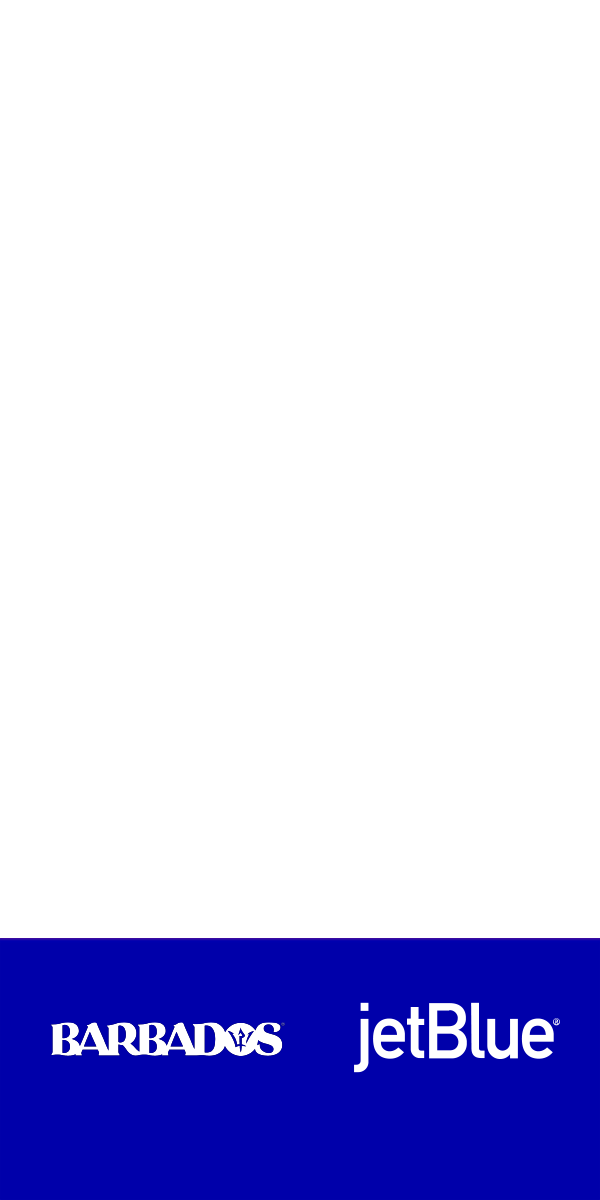
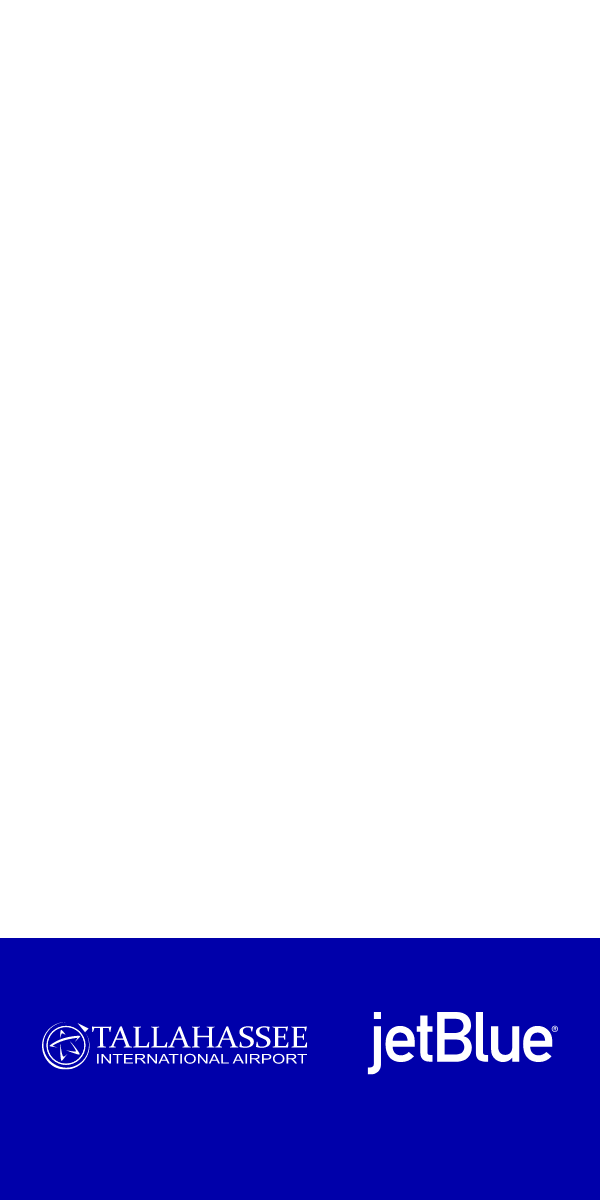
Route updated.

Changed region(s): [[0.06, 0.8325, 0.51, 0.8942], [0.6, 0.8325, 0.93, 0.8942]]

diff --git a/tallahassee_dynamic_banners/tallahassee_dynamic_banners_route2/richLoads/CA_Vacation_R2_300x250_RL1/index.html b/tallahassee_dynamic_banners/tallahassee_dynamic_banners_route2/richLoads/CA_Vacation_R2_300x250_RL1/index.html
@@ -36,11 +36,11 @@
         <img src="./images/bottomPanel.png" id="bottomPanel" class="full-width" />
 
         <div id="text_holder">
-            <div id="h1" class="hidden">Fly to and from<br/>Tallahassee</span></div>
-            <div id="h2" class="hidden">In less time than it<br/>takes to spell it.</div>
+            <div id="h1" class="hidden">Fly to and from<br>Tallahassee...</div>
+            <div id="h2" class="hidden">in less time than it<br>takes to spell it.</div>
           <!-- <div id="terms1" class="terms activeterms"><span class="asterisk">&ast;</span>Based on the avg. fleet wide seat pitch of U.S. airlines.<br/></div> -->
           
-          <div id="termsCopyright" class="terms">&copy; 2023 JetBlue Airways Corporation. All rights reserved.</div>
+          <div id="termsCopyright" class="terms">&copy; 2024 JetBlue Airways Corporation. All rights reserved.</div>
 
 <!--          -->
 

diff --git a/tallahassee_dynamic_banners/tallahassee_dynamic_banners_route2/richLoads/CA_Vacation_R2_728x90_RL1/index.html b/tallahassee_dynamic_banners/tallahassee_dynamic_banners_route2/richLoads/CA_Vacation_R2_728x90_RL1/index.html
@@ -37,9 +37,9 @@
         <img src="./images/bottomPanel.png" id="bottomPanel" class="retina" />
 
         <div id="text_holder">
-            <div id="h1" class="hidden">Take a dip in the waters...</span></div>
-            <div id="h2" class="hidden">and dive into a new world of cuisine.</div>
-          <div id="termsCopyrightHolder"><div id="termsCopyright" class="terms">&copy; 2023 JetBlue Airways Corporation. All rights reserved.</div>
+            <div id="h1" class="hidden">Fly to and from<br>Tallahassee...</div>
+            <div id="h2" class="hidden">in less time than it<br>takes to spell it.</div>
+          <div id="termsCopyrightHolder"><div id="termsCopyright" class="terms">&copy; 2024 JetBlue Airways Corporation. All rights reserved.</div>
 <!--           <div id="logoHolder">
             <img id="logo" src="./images/logo.svg" class="" />
             <div id="partner_logo_container">

diff --git a/tallahassee_dynamic_banners/tallahassee_dynamic_banners_route2/richLoads/CA_Vacation_R2_160x600_RL1/index.html b/tallahassee_dynamic_banners/tallahassee_dynamic_banners_route2/richLoads/CA_Vacation_R2_160x600_RL1/index.html
@@ -36,9 +36,9 @@
         <img src="./images/bottomPanel.png" id="bottomPanel" class="retina" />
 
         <div id="text_holder">
-            <div id="h1" class="hidden">Take<br>a dip<br>in the<br>waters...</span></div>
-            <div id="h2" class="hidden">and dive<br>into a<br>new world<br>of cuisine.</div>
-            <div id="termsCopyright" class="terms">&copy; 2023 JetBlue Airways Corporation.<br>All rights reserved.</div>
+            <div id="h1" class="hidden">Fly to<br>and from<br>Tallahassee...</div>
+            <div id="h2" class="hidden">in less time<br>than it takes<br>to spell it.</div>
+            <div id="termsCopyright" class="terms">&copy; 2024 JetBlue Airways Corporation.<br>All rights reserved.</div>
             <!--           <div id="logoHolder">
             <img id="logo" src="./images/logo.svg" class="" />
             <div id="partner_logo_container">

diff --git a/tallahassee_dynamic_banners/tallahassee_dynamic_banners_route2/richLoads/CA_Vacation_R2_160x600_RL2/index.html b/tallahassee_dynamic_banners/tallahassee_dynamic_banners_route2/richLoads/CA_Vacation_R2_160x600_RL2/index.html
@@ -17,7 +17,7 @@
       <!--start main_container-->
       <div id="main_content" class="hidden">
 
-      <img src="./images/bgPanel.png" id="bgPanel" class="" />
+      <img src="./images/bgPanel.png" id="bgPanel" class="retina" />
 
         <div id="text_holder">
           <div id="h4" class="hidden sm">Go with JetBlue<br/><span class="orange">Washington D.C.<br/>(Dulles)</span></div>
@@ -39,7 +39,7 @@
 
         <img src="./images/bottomPanel.png" id="bottomPanel" class="retina" />
 
-        <div id="terms1" class="terms">&copy; 2023 JetBlue Airways Corporation. <br>All rights reserved. </div>
+        <div id="terms1" class="terms">&copy; 2024 JetBlue Airways Corporation. <br>All rights reserved. </div>
         <div id="terms2"  class="terms hidden"><span class="asterisk">&ast;</span>Restrictions apply</div>
 
       <div id="default_exit" class="btn" ></div>

diff --git a/tallahassee_dynamic_banners/tallahassee_dynamic_banners_route2/richLoads/CA_Vacation_R2_300x600_RL1/index.html b/tallahassee_dynamic_banners/tallahassee_dynamic_banners_route2/richLoads/CA_Vacation_R2_300x600_RL1/index.html
@@ -38,9 +38,9 @@
         <img src="./images/bottomPanel.png" id="bottomPanel" class="retina" />
 
         <div id="text_holder">
-            <div id="h1" class="hidden">Take a dip in<br>the waters...</span></div>
-            <div id="h2" class="hidden">and dive into<br>a new world<br>of cuisine.</div>
-          <div id="termsCopyright" class="terms">&copy; 2023 JetBlue Airways Corporation. All rights reserved.</div>
+            <div id="h1" class="hidden">Fly to and from<br>Tallahassee...</span></div>
+            <div id="h2" class="hidden">in less time<br>than it takes<br>to spell it.</div>
+          <div id="termsCopyright" class="terms">&copy; 2024 JetBlue Airways Corporation. All rights reserved.</div>
 <!--           <div id="logoHolder">
             <img id="logo" src="./images/logo.svg" class="" />
             <div id="partner_logo_container">

diff --git a/tallahassee_dynamic_banners/tallahassee_dynamic_banners_route2/richLoads/CA_Vacation_R2_300x600_RL2/index.html b/tallahassee_dynamic_banners/tallahassee_dynamic_banners_route2/richLoads/CA_Vacation_R2_300x600_RL2/index.html
@@ -17,7 +17,7 @@
       <!--start main_container-->
          <div id="main_content" class="hidden">
      
-      <img src="./images/bgPanel.png" id="bgPanel" class="" />
+      <img src="./images/bgPanel.png" id="bgPanel" class="retina" />
 
         <div id="text_holder">
           <div id="h4" class="hidden sm">Go with JetBlue<br/><span class="blue">Washington D.C.<br/>(Dulles)</span></div>
@@ -38,7 +38,7 @@
 
         <img src="./images/bottomPanel.png" id="bottomPanel" class="retina" />
 
-        <div id="terms1" class="terms">&copy; 2023 JetBlue Airways Corporation. All rights reserved.</div>
+        <div id="terms1" class="terms">&copy; 2024 JetBlue Airways Corporation. All rights reserved.</div>
        <div id="terms2" class="terms hidden">*Restrictions apply</div>
 
       <div id="default_exit" class="btn" ></div>

diff --git a/tallahassee_dynamic_banners/tallahassee_dynamic_banners_route2/richLoads/CA_Vacation_R2_300x250_RL2/index.html b/tallahassee_dynamic_banners/tallahassee_dynamic_banners_route2/richLoads/CA_Vacation_R2_300x250_RL2/index.html
@@ -18,7 +18,7 @@
 
       <div id="main_content" class="hidden">
 
-        <img src="./images/bgPanel.png" id="bgPanel" class="" />
+        <img src="./images/bgPanel.png" id="bgPanel" class="full-width" />
 
         <div id="text_holder" class="frame-holder headline-text">
           <div id="h4" class="hidden"></div>
@@ -44,7 +44,7 @@
 
       <img src="./images/bottomPanel.png" id="bottomPanel" class="retina" />
 
-      <div id="terms1" class="terms">&copy; 2023 JetBlue Airways Corporation. All rights reserved.</div>
+      <div id="terms1" class="terms">&copy; 2024 JetBlue Airways Corporation. All rights reserved.</div>
       <div id="terms2" class="terms hidden"><span class="asterisk">&ast;</span>Restrictions apply</div>
 
       <div id="default_exit" class="btn" ></div>

diff --git a/tallahassee_dynamic_banners/tallahassee_dynamic_banners_route2/richLoads/CA_Vacation_R2_728x90_RL2/index.html b/tallahassee_dynamic_banners/tallahassee_dynamic_banners_route2/richLoads/CA_Vacation_R2_728x90_RL2/index.html
@@ -18,7 +18,7 @@
 
       <div id="main_content" class="hidden">
 
-        <img src="./images/bgPanel.png" id="bgPanel" class="" />
+        <img src="./images/bgPanel.png" id="bgPanel" class="retina" />
 
         <div id="text_holder">
           <div id="headline">
@@ -41,7 +41,7 @@
 
        <img src="./images/bottomPanel.png" id="bottomPanel" class="retina" />
 
-       <div id="terms1" class="terms">&copy; 2023 JetBlue Airways Corporation. All rights reserved. </div>
+       <div id="terms1" class="terms">&copy; 2024 JetBlue Airways Corporation. All rights reserved. </div>
        <div id="terms2" class="terms hidden"><span class="asterisk">&ast;</span>Restrictions apply</div>
 
       <div id="default_exit" class="btn" ></div>

diff --git a/tallahassee_dynamic_banners/tallahassee_dynamic_banners_route2/richLoads/CA_Vacation_R2_728x90_RL2/mainRL2.js b/tallahassee_dynamic_banners/tallahassee_dynamic_banners_route2/richLoads/CA_Vacation_R2_728x90_RL2/mainRL2.js
@@ -82,7 +82,7 @@ function setupContent() {
     h4[0].innerHTML = ""; // - Populates main headline
 
  h4[0].innerHTML +=
- "<span class='sm blue'>Nonstop flights from </span><br><span class='blue city'>" + "NYC" + "</span> <span class='blue to'>to</span> <span class='blue city'>" + "Barbados" + "</span>";
+ "<span class='sm blue'>Daily nonstop flights from  </span><br><span class='blue city'>" + "TLH" + "</span> <span class='blue to'>to</span> <span class='blue city'>" + "FLL" + "</span>";
 
    //   h4[0].innerHTML +=
    // "<span class='sm blue'>Nonstop flights from </span><br><span class='blue city'>" + origin_formatted + "</span> <span class='blue to'>to</span><br><span class='blue city'>" + destination_formatted + "</span>";

diff --git a/tallahassee_dynamic_banners/tallahassee_dynamic_banners_route2/richLoads/CA_Vacation_R2_160x600_RL2/mainRL2.js b/tallahassee_dynamic_banners/tallahassee_dynamic_banners_route2/richLoads/CA_Vacation_R2_160x600_RL2/mainRL2.js
@@ -68,7 +68,7 @@ function setupContent(feed) {
 
 
    h4[0].innerHTML +=
- "<span class='sm blue'>Nonstop flights from </span><br><span class='blue city'>" + "NYC" + "</span> <span class='blue to'>to<br></span> <span class='blue city'>" + "Barbados" + "</span>";
+ "<span class='sm blue'>Daily nonstop<br>flights from</span><span class='blue city'>" + "TLH" + "</span> <span class='blue to'>to</span> <span class='blue city'>" + "FLL" + "</span>";
     
    //   h4[0].innerHTML +=
    // "<span class='sm blue'>Nonstop flights from </span><br><span class='blue city'>" + origin_formatted + "</span> <span class='blue to'>to<br></span> <span class='blue city'>" + destination_formatted + "</span>";

diff --git a/tallahassee_dynamic_banners/tallahassee_dynamic_banners_route2/richLoads/CA_Vacation_R2_160x600_RL1/stylesRL1.css b/tallahassee_dynamic_banners/tallahassee_dynamic_banners_route2/richLoads/CA_Vacation_R2_160x600_RL1/stylesRL1.css
@@ -87,9 +87,9 @@ video {
 #text_holder {
   color: #FFFFFF;
   font-family: "ESKlarheitGrotesk Xbd";
-  font-size: 24px;
+  font-size: 21px;
   letter-spacing: -0.414px;
-  line-height: 28px;
+  line-height: 26px;
 }
 
 #blueBottomCard {
@@ -113,10 +113,12 @@ video {
   width: 200px;
   height: 74px;
   left: 13px;
-  top: 80px;
+  top: 20.64px;
 /*  text-shadow: 0px 3px 6px rgba(0, 0, 0, 0.26);*/
 }
-
+#h2{
+  color: #0000AA;
+}
 #h2 .asterisk{
   font-size: 11px;
   line-height: 10px;
@@ -161,7 +163,9 @@ video {
 
 #termsCopyright {
   top: 567px;
-  left: 11px;
+  left: 0px;
+  text-align: center;
+  width: 160px;
 }
 
 /* Horizontal Logo */

diff --git a/tallahassee_dynamic_banners/tallahassee_dynamic_banners_route2/richLoads/CA_Vacation_R2_300x600_RL2/mainRL2.js b/tallahassee_dynamic_banners/tallahassee_dynamic_banners_route2/richLoads/CA_Vacation_R2_300x600_RL2/mainRL2.js
@@ -67,7 +67,7 @@ function setupContent() {
 
 
 h4[0].innerHTML +=
- "<span class='sm blue'>Nonstop flights from </span><br><span class='blue city'>" + "NYC" + "</span> <span class='blue to'>to</span> <span class='blue city'>" + "Barbados" + "</span>";
+ "<span class='sm blue'>Daily nonstop flights from</span><br><span class='blue city'>" + "TLH" + "</span> <span class='blue to'>to</span> <span class='blue city'>" + "FLL" + "</span>";
 
    // h4[0].innerHTML +=
    // h4[0].innerHTML +=
